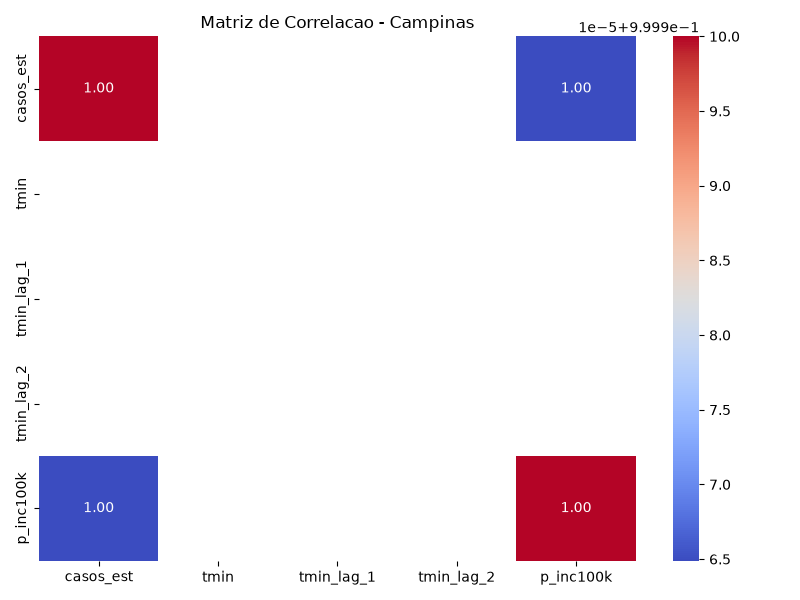
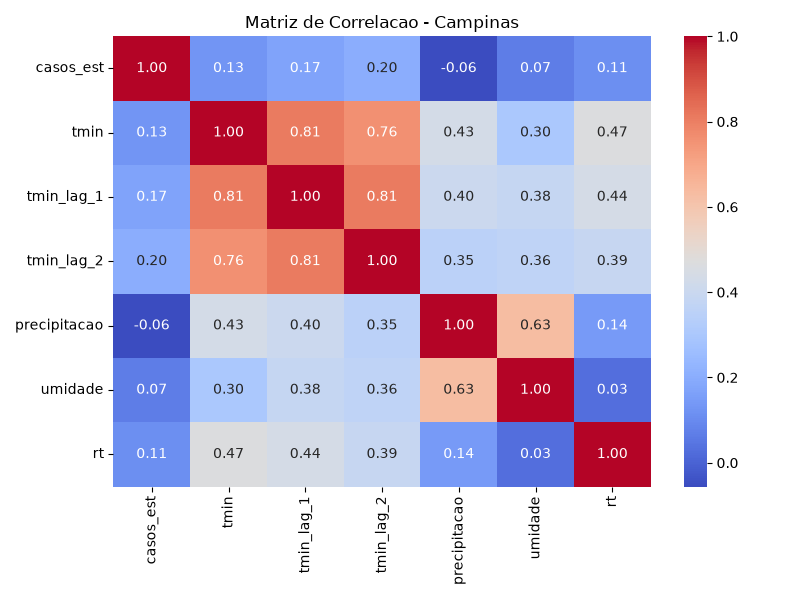
feat(eda): incluir precipitacao e umidade e gerar figuras dos 19 municipios

diff --git a/src/eda.py b/src/eda.py
@@ -3,19 +3,21 @@ import pandas as pd
 import matplotlib.pyplot as plt
 import seaborn as sns
 import logging
+from src.cidades import CIDADES
 
 logging.basicConfig(level=logging.INFO, format='%(asctime)s - %(levelname)s - %(message)s')
 
 def gerar_analise_exploratoria(cidade, df):
     os.makedirs('reports/figures', exist_ok=True)
     
-    cols = ['casos_est', 'tmin', 'tmin_lag_1', 'tmin_lag_2', 'rt', 'p_inc100k']
+    nome = CIDADES[cidade]['nome']
+    cols = ['casos_est', 'tmin', 'tmin_lag_1', 'tmin_lag_2', 'precipitacao', 'umidade', 'rt']
     cols_existentes = [c for c in cols if c in df.columns]
     
     # 1. Matriz de Correlacao
     plt.figure(figsize=(8, 6))
     sns.heatmap(df[cols_existentes].corr(), annot=True, cmap='coolwarm', fmt=".2f")
-    plt.title(f'Matriz de Correlacao - {cidade.capitalize()}')
+    plt.title(f'Matriz de Correlacao - {nome}')
     plt.tight_layout()
     plt.savefig(f'reports/figures/{cidade}_correlacao.png')
     plt.close()
@@ -30,16 +32,14 @@ def gerar_analise_exploratoria(cidade, df):
     ax2.set_ylabel('Temperatura Minima (°C)', color='tab:blue')
     ax2.plot(df['data_iniSE'], df['tmin'], color='tab:blue', alpha=0.6)
     
-    plt.title(f'Casos Estimados vs Temperatura Minima - {cidade.capitalize()}')
+    plt.title(f'Casos Estimados vs Temperatura Minima - {nome}')
     fig.tight_layout()
     plt.savefig(f'reports/figures/{cidade}_casos_vs_temp.png')
     plt.close()
 
 def run_eda():
-    processed_files = [f for f in os.listdir('data/processed') if f.endswith('_processed.csv')]
-    for file in processed_files:
-        cidade = file.removesuffix('_processed.csv')
-        df = pd.read_csv(os.path.join('data/processed', file))
+    for cidade in CIDADES:
+        df = pd.read_csv(os.path.join('data/processed', f'{cidade}_processed.csv'))
         df['data_iniSE'] = pd.to_datetime(df['data_iniSE'])
         gerar_analise_exploratoria(cidade, df)
         logging.info(f"EDA gerada para {cidade}.")
